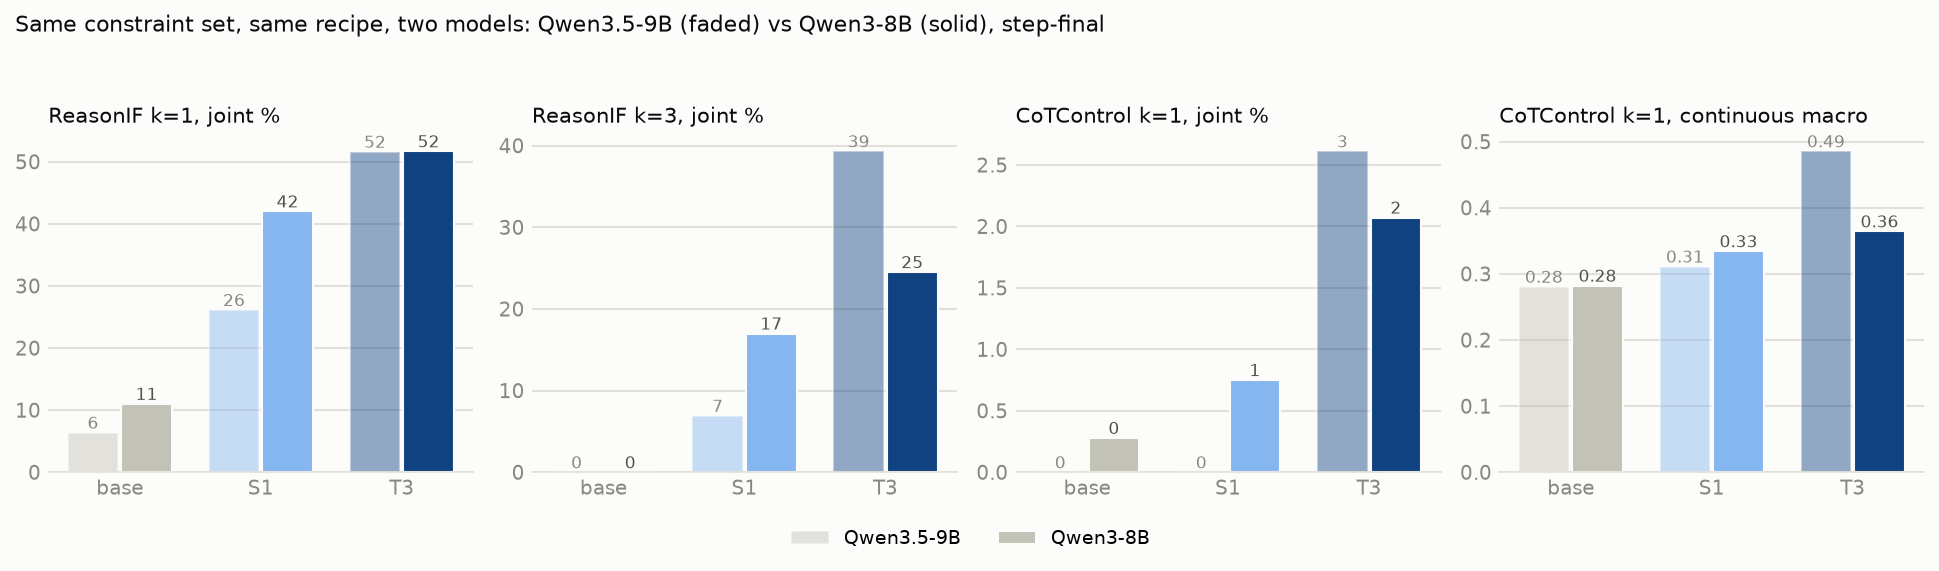
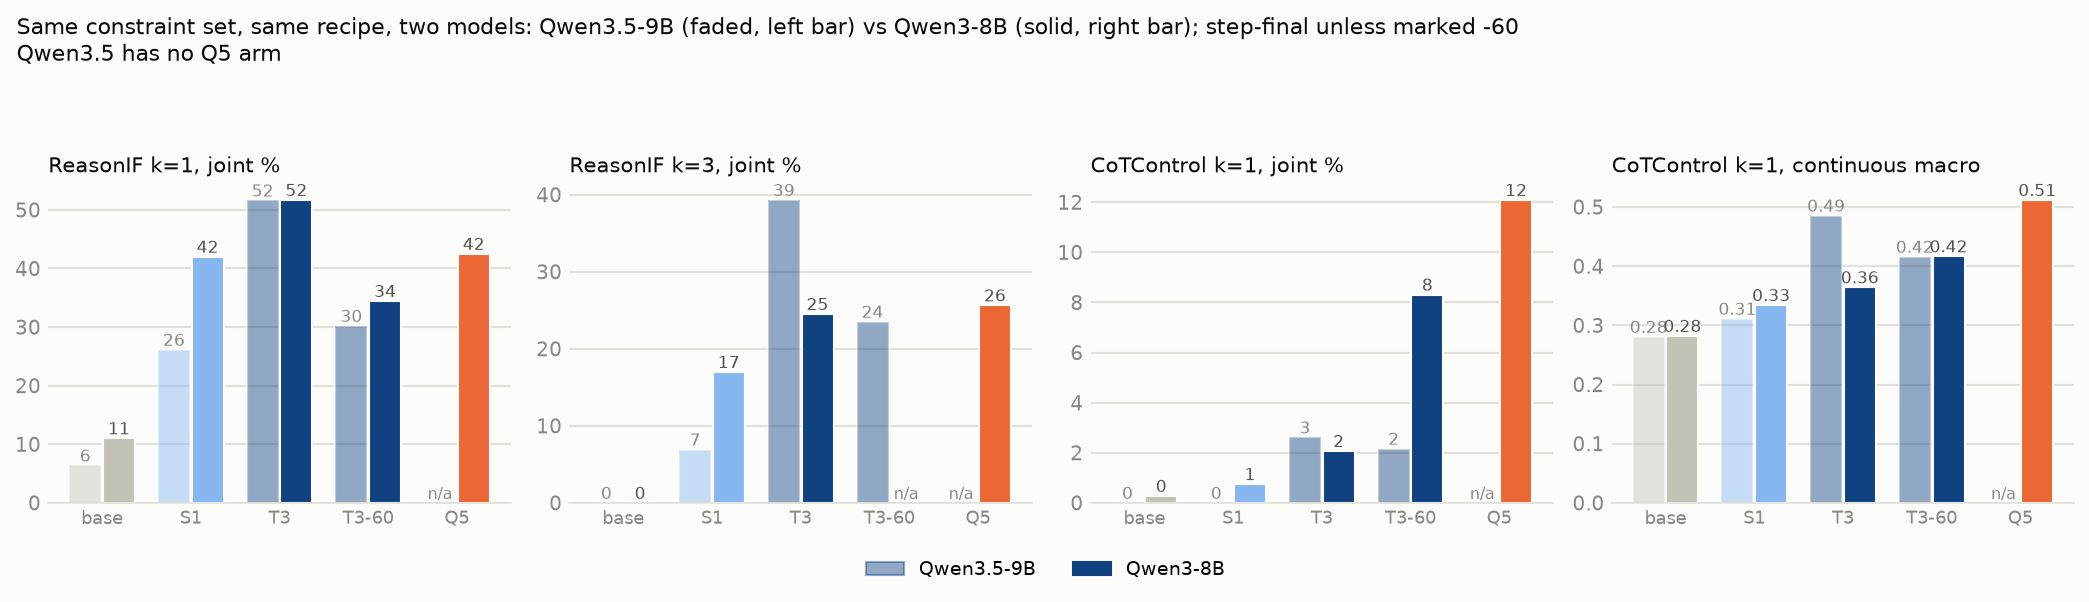
Qwen3-8B: cross-model figure includes T3 step-60 and Q5; findings text corrected on step-final transfer

diff --git a/scripts/report_qwen3_8b.py b/scripts/report_qwen3_8b.py
@@ -159,27 +159,34 @@ axes[0].set_ylim(-0.6, 1.6)
 fig.legend(handles=[plt.Line2D([0], [0], marker="o", ls="", ms=8, color="#c3c2b7", markeredgecolor=SURF, label="step-60 (240 examples)"), plt.Line2D([0], [0], marker="o", ls="", ms=8, color="#2a78d6", markeredgecolor=SURF, label="step-final (~915; colour = arm)"), plt.Line2D([0], [0], ls=":", color=MUTED, label="base")], frameon=False, loc="lower center", bbox_to_anchor=(0.5, -0.06), ncol=3, fontsize=9)
 fig.suptitle("Qwen3-8B: step-60 vs step-final on single-constraint prompts", x=0.01, ha="left", fontsize=10.5, color=INK); fig.tight_layout(rect=(0, 0.05, 1, 0.94)); fig.savefig(REPO / "figures/q3_8b_step60_vs_final.png", bbox_inches="tight"); plt.close(fig)
 
-# Fig 6: cross-model comparison, S1 and T3 step-final vs base, ReasonIF k=1/k=3 and CoTControl k=1 (binary) + continuous macro
-S35 = {l: json.load(open(REPO / f"results/multi_eval/{l}/summary.json")) for l in ("base", "S1-step-final", "T3-step-final")}
+# Fig 6: cross-model comparison, base / S1 / T3 / T3 step-60 / Q5, ReasonIF k=1/k=3 and CoTControl k=1 (binary + continuous macro)
+S35 = {l: json.load(open(REPO / f"results/multi_eval/{l}/summary.json")) for l in ("base", "S1-step-final", "T3-step-final", "T3-step-60")}
 def s35(l, key): return S35[l].get(key)
 def s35_cont(l):
     c = S35[l]["conditions"]; vals = [v["per_continuous"][k] for m, v in c.items() if v["suite"] == "cotcontrol_multi" and v["level"] == 1 for k in v["per_continuous"] if v["per_continuous"][k] is not None]
     return sum(vals) / len(vals)
-panels = [("ReasonIF k=1, joint %", lambda l: 100 * s35(l, "reasonif_multi/k1/joint_macro"), lambda l: 100 * joint(rows(l, "reasonif_multi", 1))[0]),
-          ("ReasonIF k=3, joint %", lambda l: 100 * s35(l, "reasonif_multi/k3/joint_macro"), lambda l: 100 * joint(rows(l, "reasonif_multi", 3))[0]),
-          ("CoTControl k=1, joint %", lambda l: 100 * s35(l, "cotcontrol_multi/k1/joint_macro"), lambda l: 100 * joint(rows(l, "cotcontrol_multi", 1))[0]),
+ARMS6 = ["base", "S1", "T3", "T3-60", "Q5"]
+L35 = {"base": "base", "S1": "S1-step-final", "T3": "T3-step-final", "T3-60": "T3-step-60", "Q5": None}
+L38 = {"base": "base", "S1": "S1-final", "T3": "T3-final", "T3-60": "T3-60", "Q5": "Q5-final"}
+def j38(l, suite, lvl): p, n = joint(rows(l, suite, lvl)); return None if p is None else 100 * p
+panels = [("ReasonIF k=1, joint %", lambda l: 100 * s35(l, "reasonif_multi/k1/joint_macro"), lambda l: j38(l, "reasonif_multi", 1)),
+          ("ReasonIF k=3, joint %", lambda l: 100 * s35(l, "reasonif_multi/k3/joint_macro"), lambda l: j38(l, "reasonif_multi", 3)),
+          ("CoTControl k=1, joint %", lambda l: 100 * s35(l, "cotcontrol_multi/k1/joint_macro"), lambda l: j38(l, "cotcontrol_multi", 1)),
           ("CoTControl k=1, continuous macro", s35_cont, lambda l: cont_macro(l))]
-fig, axes = plt.subplots(1, 4, figsize=(13, 3.6))
+fig, axes = plt.subplots(1, 4, figsize=(14, 3.8))
 for ax, (ttl, f35, f38) in zip(axes, panels):
-    arms = ["base", "S1", "T3"]; x = range(3)
-    v35 = [f35({"base": "base", "S1": "S1-step-final", "T3": "T3-step-final"}[a]) for a in arms]; v38 = [f38({"base": "base", "S1": "S1-final", "T3": "T3-final"}[a]) for a in arms]
-    ax.bar([i - 0.19 for i in x], v35, width=0.36, color=[C[a] for a in arms], alpha=0.45, edgecolor=SURF, label="Qwen3.5-9B" if ax is axes[0] else None)
-    ax.bar([i + 0.19 for i in x], v38, width=0.36, color=[C[a] for a in arms], edgecolor=SURF, label="Qwen3-8B" if ax is axes[0] else None)
-    for i in x: ax.text(i - 0.19, v35[i], f"{v35[i]:.0f}" if "joint" in ttl else f"{v35[i]:.2f}", ha="center", va="bottom", fontsize=8, color=MUTED); ax.text(i + 0.19, v38[i], f"{v38[i]:.0f}" if "joint" in ttl else f"{v38[i]:.2f}", ha="center", va="bottom", fontsize=8, color=INK2)
-    ax.set_xticks(list(x)); ax.set_xticklabels(arms); ax.set_title(ttl, loc="left", fontsize=10, color=INK); style(ax)
-fig.suptitle("Same constraint set, same recipe, two models: Qwen3.5-9B (faded) vs Qwen3-8B (solid), step-final", x=0.01, ha="left", fontsize=10.5, color=INK)
-fig.legend(frameon=False, loc="lower center", bbox_to_anchor=(0.5, -0.04), ncol=2, fontsize=9); fig.tight_layout(rect=(0, 0.04, 1, 0.93)); fig.savefig(REPO / "figures/q3_8b_vs_qwen35.png", bbox_inches="tight"); plt.close(fig)
-
+    x = range(len(ARMS6))
+    v35 = [f35(L35[a]) if L35[a] else None for a in ARMS6]; v38 = [f38(L38[a]) for a in ARMS6]
+    for i, a in enumerate(ARMS6):
+        col = C[arm(a)]
+        if v35[i] is not None: ax.bar(i - 0.19, v35[i], width=0.36, color=col, alpha=0.45, edgecolor=SURF); ax.text(i - 0.19, v35[i], f"{v35[i]:.0f}" if "joint" in ttl else f"{v35[i]:.2f}", ha="center", va="bottom", fontsize=8, color=MUTED)
+        else: ax.text(i - 0.19, 0, "n/a", ha="center", va="bottom", fontsize=7.5, color=MUTED)
+        if v38[i] is not None: ax.bar(i + 0.19, v38[i], width=0.36, color=col, edgecolor=SURF); ax.text(i + 0.19, v38[i], f"{v38[i]:.0f}" if "joint" in ttl else f"{v38[i]:.2f}", ha="center", va="bottom", fontsize=8, color=INK2)
+        else: ax.text(i + 0.19, 0, "n/a", ha="center", va="bottom", fontsize=7.5, color=MUTED)
+    ax.set_xticks(list(x)); ax.set_xticklabels(ARMS6, fontsize=8.5); ax.set_title(ttl, loc="left", fontsize=10, color=INK); style(ax)
+fig.suptitle("Same constraint set, same recipe, two models: Qwen3.5-9B (faded, left bar) vs Qwen3-8B (solid, right bar); step-final unless marked -60\nQwen3.5 has no Q5 arm", x=0.01, ha="left", fontsize=10.5, color=INK)
+fig.legend(handles=[plt.Rectangle((0, 0), 1, 1, color="#104281", alpha=0.45, label="Qwen3.5-9B"), plt.Rectangle((0, 0), 1, 1, color="#104281", label="Qwen3-8B")], frameon=False, loc="lower center", bbox_to_anchor=(0.5, -0.04), ncol=2, fontsize=9)
+fig.tight_layout(rect=(0, 0.04, 1, 0.9)); fig.savefig(REPO / "figures/q3_8b_vs_qwen35.png", bbox_inches="tight"); plt.close(fig)
 
 # ---------------------------------------------------------------- additional figures
 LANGN = {"en": "English", "es": "Spanish", "fr": "French", "ru": "Russian", "pl": "Polish", "zh": "Chinese", "hi": "Hindi", "ar": "Arabic"}

diff --git a/QWEN3_8B_FINDINGS.md b/QWEN3_8B_FINDINGS.md
@@ -133,12 +133,17 @@ trained arm reaches Chinese and Hindi, and Arabic is the one language that fails
 |---|---:|---:|---:|---:|
 | Qwen3.5-9B base / S1 / T3 | 6 / 26 / 52 | 0 / 7 / 39 | 0 / 0 / 2.5 | 0.28 / 0.31 / 0.49 |
 | Qwen3-8B base / S1 / T3 | 11 / 42 / 52 | 0 / 17 / 25 | 0.3 / 0.8 / 2.1 | 0.28 / 0.33 / 0.36 |
-| Qwen3-8B Q5 · T3 step-60 | 42.5 · 34.5 | 25.6 · — | **12.1 · 8.3** | 0.51 · 0.42 |
+| Qwen3.5-9B T3 step-60 | 30 | 24 | 2.2 | 0.42 |
+| Qwen3-8B T3 step-60 | 34.5 | — | **8.3** | 0.42 |
+| Qwen3-8B Q5 | 42.5 | 25.6 | **12.1** | 0.51 |
 
 Qwen3-8B learns single constraints from single-constraint data more readily (S1 42 vs 26 %) and reaches
-the same T3 level on singles, but a lower T3 level on triples (25 vs 39 %). At step-final the two models'
-T3 arms transfer equally little in binary terms; the binary transfer on Qwen3-8B comes from Q5 and from
-T3's earlier checkpoint, neither of which exists on the Qwen3.5 side. Qwen3-8B's reasoning is a quarter of
+the same T3 level on singles, but a lower T3 level on triples (25 vs 39 %). **With matched arms at step-final,
+Qwen3.5 transfers at least as much as Qwen3-8B**: T3 2.5 vs 2.1 % binary, and 0.49 vs 0.36 on the continuous
+macro. The binary transfer on Qwen3-8B comes from two checkpoints Qwen3.5 does not have an equivalent of: the
+Q5 arm, which was not trained there, and T3's step-60, which on Qwen3.5 sat at 2.2 % with the same 0.42
+continuous macro as Qwen3-8B's step-60 but none of the JSON gain. So the two models reach the same graded
+degree of compliance at step-60; only on Qwen3-8B does that turn into fully compliant traces. Qwen3-8B's reasoning is a quarter of
 the length (median 400 vs 1,681 words on the source questions), which makes all-or-nothing formats such
 as all-lowercase or full JSON wrapping easier to satisfy end to end and is the likeliest reason the
 binary metric moved here and not there.
